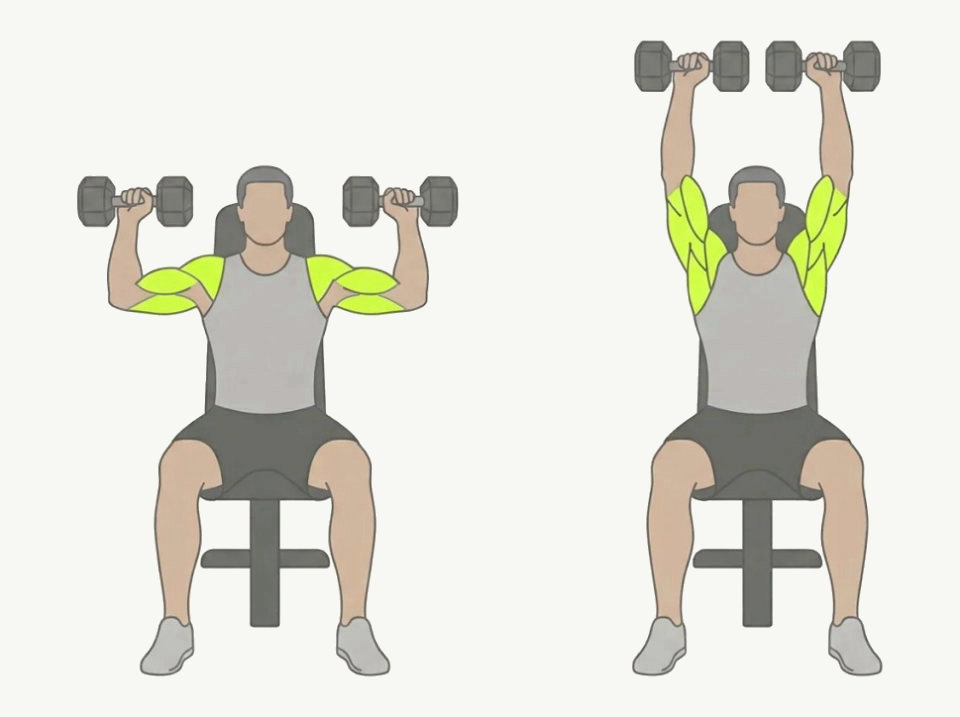
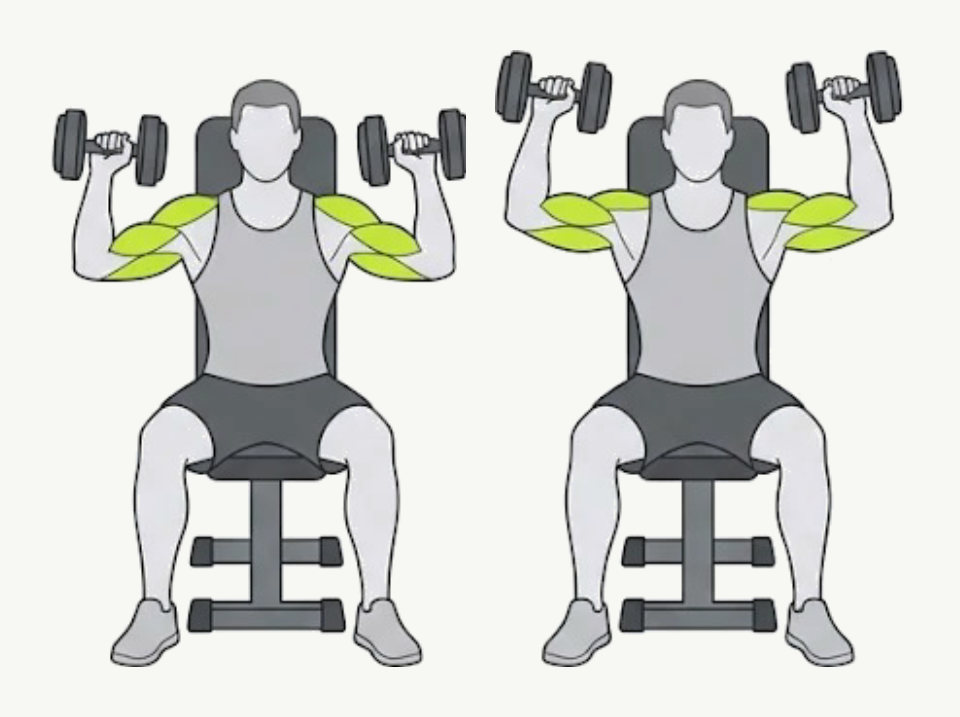
Add muscle charts for all 64 exercises and the last 8 animations
Muscle charts generated in Gemini, imported into public/exercises/muscles and
white-balanced to the paper colour (normalize-illustrations --muscles). The
importer for frame sheets can now read 4x2 sheets via --top-row. A test checks
the muscle chart manifest against the files on disk.

diff --git a/src/ui/illustrated.ts b/src/ui/illustrated.ts
@@ -82,14 +82,17 @@ export const ANIMATED: ReadonlySet<string> = new Set([
   'cable-fly',
   'cable-lateral-raise',
   'chest-press-machine',
+  'chin-up',
   'close-grip-bench-press',
   'crunch',
   'db-bench-press',
   'db-curl',
   'db-fly',
   'db-row',
+  'db-shoulder-press',
   'deadlift',
   'dip',
+  'face-pull',
   'farmer-walk',
   'front-raise',
   'front-squat',
@@ -103,6 +106,7 @@ export const ANIMATED: ReadonlySet<string> = new Set([
   'incline-db-press',
   'kettlebell-swing',
   'lat-pulldown',
+  'lateral-raise',
   'leg-curl',
   'leg-extension',
   'leg-press',
@@ -113,6 +117,7 @@ export const ANIMATED: ReadonlySet<string> = new Set([
   'pec-deck',
   'plank',
   'preacher-curl',
+  'pull-up',
   'push-up',
   'rear-delt-fly',
   'romanian-deadlift',
@@ -120,12 +125,80 @@ export const ANIMATED: ReadonlySet<string> = new Set([
   'russian-twist',
   'seated-cable-row',
   'seated-calf-raise',
+  'shrug',
   'skull-crusher',
   'squat',
+  'standing-calf-raise',
   'straight-arm-pulldown',
   't-bar-row',
   'triceps-pushdown',
+  'upright-row',
 ]);
 
 /** Those that have a muscle chart in public/exercises/muscles. */
-export const MUSCLE_CHARTS: ReadonlySet<string> = new Set([]);
+export const MUSCLE_CHARTS: ReadonlySet<string> = new Set([
+  'ab-wheel',
+  'arnold-press',
+  'back-extension',
+  'barbell-curl',
+  'barbell-row',
+  'bench-dip',
+  'bench-press',
+  'bulgarian-split-squat',
+  'cable-crunch',
+  'cable-curl',
+  'cable-fly',
+  'cable-lateral-raise',
+  'chest-press-machine',
+  'chin-up',
+  'close-grip-bench-press',
+  'crunch',
+  'db-bench-press',
+  'db-curl',
+  'db-fly',
+  'db-row',
+  'db-shoulder-press',
+  'deadlift',
+  'dip',
+  'face-pull',
+  'farmer-walk',
+  'front-raise',
+  'front-squat',
+  'goblet-squat',
+  'hack-squat',
+  'hammer-curl',
+  'hanging-leg-raise',
+  'hip-thrust',
+  'incline-bench-press',
+  'incline-db-curl',
+  'incline-db-press',
+  'kettlebell-swing',
+  'lat-pulldown',
+  'lateral-raise',
+  'leg-curl',
+  'leg-extension',
+  'leg-press',
+  'lunge',
+  'machine-row',
+  'overhead-press',
+  'overhead-triceps-extension',
+  'pec-deck',
+  'plank',
+  'preacher-curl',
+  'pull-up',
+  'push-up',
+  'rear-delt-fly',
+  'romanian-deadlift',
+  'rope-overhead-extension',
+  'russian-twist',
+  'seated-cable-row',
+  'seated-calf-raise',
+  'shrug',
+  'skull-crusher',
+  'squat',
+  'standing-calf-raise',
+  'straight-arm-pulldown',
+  't-bar-row',
+  'triceps-pushdown',
+  'upright-row',
+]);

diff --git a/scripts/illustrations.test.ts b/scripts/illustrations.test.ts
@@ -2,7 +2,7 @@ import { existsSync, readdirSync } from 'node:fs';
 import { describe, expect, it } from 'vitest';
 import { POSES } from './illustration-poses.mjs';
 import { SEED_EXERCISES } from '../src/domain/seed';
-import { ANIMATED, ILLUSTRATED } from '../src/ui/illustrated';
+import { ANIMATED, ILLUSTRATED, MUSCLE_CHARTS } from '../src/ui/illustrated';
 
 const seedKeys = SEED_EXERCISES.map((e) => e.id.slice('seed-'.length)).sort();
 
@@ -24,6 +24,16 @@ describe('exercise illustrations', () => {
       .sort();
     // If this fails, run: npm run illustrations -- --manifest
     expect([...ANIMATED].sort()).toEqual(files);
+  });
+
+  it('lists exactly the muscle charts present in public/exercises/muscles', () => {
+    const dir = 'public/exercises/muscles';
+    const files = (existsSync(dir) ? readdirSync(dir) : [])
+      .filter((f) => f.endsWith('.jpg'))
+      .map((f) => f.slice(0, -4))
+      .sort();
+    // If this fails, run: npm run illustrations -- --manifest
+    expect([...MUSCLE_CHARTS].sort()).toEqual(files);
   });
 
   it('has a pose description for every built-in exercise and nothing else', () => {
